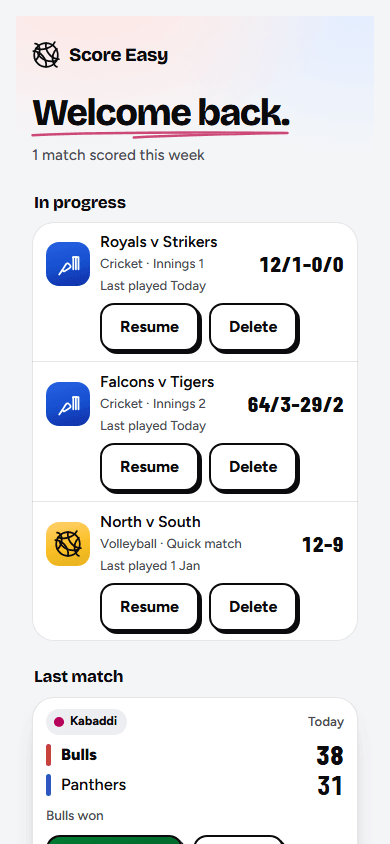
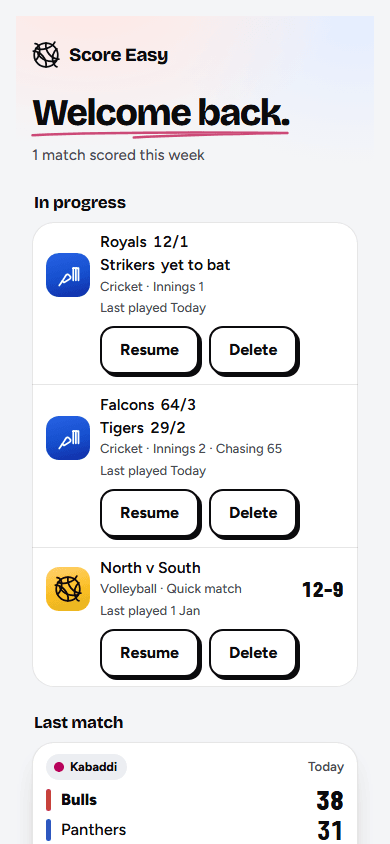
docs(matches): refresh round-two retention and cricket evidence
Capture Home, History and delete confirmation with the new named cricket innings. Record phone dimensions, actual name truncation, unclipped scores, full-suite results and the rebase compatibility audit.

Changed region(s): [[0.0923, 0.2773, 0.8923, 1.0], [0.8, 0.8318, 0.8923, 1.0], [0.4923, 0.9858, 0.7385, 1.0]]

diff --git a/docs/plans/2026-10-23-keep-every-match/README.md b/docs/plans/2026-10-23-keep-every-match/README.md
@@ -4,7 +4,7 @@ Starting a second quick match used the first match's storage slot, and drafts ol
 
 The screenshots render real components with local fixtures and mocked auth/Convex. T3 `html_preview` was the only screenshot renderer. The app was built as an inline IIFE with inline CSS and fonts, inside exact phone frames. Entry motion was disabled in the fixture to capture its settled state. No live data or backend writes were used.
 
-The product source for the after captures is `8509bbabc95534e2dc1151c6229b373a8286362f`. The before source is tracked master `4a3ba4494f47fe8294a518abdc1c95e017f075b8`. The baseline fixture uses legacy per-sport slots: cricket B overwrites cricket A, and the older volleyball draft is hidden by expiry. Its Home therefore shows only cricket B; its History shows only the completed kabaddi result. The after fixture holds all three independent records.
+The product source for the refreshed after captures is `715c9e0290a7527f2a7b76e32455cc29fb019f32` (round 2, rebased onto dock-visibility PR #206). The before source is tracked master `4a3ba4494f47fe8294a518abdc1c95e017f075b8`. The baseline fixture uses legacy per-sport slots: cricket B overwrites cricket A, and the older volleyball draft is hidden by expiry. Its Home therefore shows only cricket B; its History shows only the completed kabaddi result. The after fixture holds all three independent records.
 
 | Capture | Evidence |
 | --- | --- |
@@ -59,21 +59,40 @@ Storage full at boot remains a separate existing bug (Forge `7a50f38f-f619-445d-
 
 The source and test file inventory follows.
 
+## Round 2: restore the started board after refresh
+
+The rebase onto PR #206 preserved both conflict assertions: Rematch is dock-free while New Match returns to setup, and the latch check reads the per-match catalog. The six new dock regressions failed before this fix. The snapshot was still stored: the bare quick route only consulted the removed legacy slot, while the new per-match record required a resume id. It now resolves the most recently saved started draft of that sport, including 0?0 and an Undo back to zero. Fresh creation actions pass explicit router state; Home/History rematches already pass the intended teams. Starting a second match still allocates a separate record. Phantom-shell cleanup was not changed.
+
+Cricket quick rows now pair each team with its own runs/wickets, show the unplayed side as yet to bat, and derive the chase target from the other innings. Names ellipsize; score/status values do not shrink. The seven after screenshots above were refreshed, including the changed delete-confirmation copy. A separate 360px long-name render verifies actual name truncation, no numeric clipping and no horizontal overflow. New Resume/Delete targets measure at least 88.39?48px. Round-2 metadata is retained separately in the measurements JSON; the prior capture metadata remains historical.
+
+Test adaptations are limited to helpers: the retention flow uses the real Play tile to start match B, and 11 existing scorer storage mocks expose an empty per-match key inventory through listDataKeys. Their seeded legacy snapshots and all timer, score, Undo and broadcast assertions are unchanged. The #206 dock tests and the conflict resolution are unchanged. New regressions cover the latest zero-score match alongside a peer, both Home/History cricket labels, reversed batting order and a zero-run chase target.
+
+Round-2 validation (evidence rung 4): the full suite passed 166 files, 2,164 tests passed and 7 existing expected failures (2,171 total), using bun run test --maxWorkers 2. The production build passed. Commit hooks passed lint (0 errors, 29 existing warnings), type-check and config synchronization. Screenshot evidence (rung 5 for these rendered components) passed all eight audits. All nine PNG dimensions were checked after compression; total committed image size is 194,997 bytes. Evidence compression and the size gate passed. The first full attempt exposed the missing mock inventory method and was stopped before completion; the completed run used the updated helpers.
+
 <!-- file inventory -->
 
 - [`src/designs/design1-mono/KeepEveryMatch.test.jsx`](../../../src/designs/design1-mono/KeepEveryMatch.test.jsx)
 - [`src/designs/design1-mono/MonoHistory.jsx`](../../../src/designs/design1-mono/MonoHistory.jsx)
+- [`src/designs/design1-mono/MonoPlayHub.jsx`](../../../src/designs/design1-mono/MonoPlayHub.jsx)
 - [`src/designs/design1-mono/MonoQuickMatch.badmintonBoard.test.jsx`](../../../src/designs/design1-mono/MonoQuickMatch.badmintonBoard.test.jsx)
 - [`src/designs/design1-mono/MonoQuickMatch.basketballBoard.test.jsx`](../../../src/designs/design1-mono/MonoQuickMatch.basketballBoard.test.jsx)
 - [`src/designs/design1-mono/MonoQuickMatch.broadcast.test.jsx`](../../../src/designs/design1-mono/MonoQuickMatch.broadcast.test.jsx)
+- [`src/designs/design1-mono/MonoQuickMatch.clock.test.jsx`](../../../src/designs/design1-mono/MonoQuickMatch.clock.test.jsx)
 - [`src/designs/design1-mono/MonoQuickMatch.cricketBoard.test.jsx`](../../../src/designs/design1-mono/MonoQuickMatch.cricketBoard.test.jsx)
+- [`src/designs/design1-mono/MonoQuickMatch.footballBoard.test.jsx`](../../../src/designs/design1-mono/MonoQuickMatch.footballBoard.test.jsx)
+- [`src/designs/design1-mono/MonoQuickMatch.goalsBoard.test.jsx`](../../../src/designs/design1-mono/MonoQuickMatch.goalsBoard.test.jsx)
 - [`src/designs/design1-mono/MonoQuickMatch.hardening.test.jsx`](../../../src/designs/design1-mono/MonoQuickMatch.hardening.test.jsx)
+- [`src/designs/design1-mono/MonoQuickMatch.hockeyBoard.test.jsx`](../../../src/designs/design1-mono/MonoQuickMatch.hockeyBoard.test.jsx)
 - [`src/designs/design1-mono/MonoQuickMatch.jsx`](../../../src/designs/design1-mono/MonoQuickMatch.jsx)
 - [`src/designs/design1-mono/MonoQuickMatch.lastLine.test.jsx`](../../../src/designs/design1-mono/MonoQuickMatch.lastLine.test.jsx)
 - [`src/designs/design1-mono/MonoQuickMatch.pointCue.test.jsx`](../../../src/designs/design1-mono/MonoQuickMatch.pointCue.test.jsx)
 - [`src/designs/design1-mono/MonoQuickMatch.restoreNotice.test.jsx`](../../../src/designs/design1-mono/MonoQuickMatch.restoreNotice.test.jsx)
 - [`src/designs/design1-mono/MonoQuickMatch.tabletennisBoard.test.jsx`](../../../src/designs/design1-mono/MonoQuickMatch.tabletennisBoard.test.jsx)
+- [`src/designs/design1-mono/MonoQuickMatch.teamColour.test.jsx`](../../../src/designs/design1-mono/MonoQuickMatch.teamColour.test.jsx)
+- [`src/designs/design1-mono/MonoSportHome_TABBED.jsx`](../../../src/designs/design1-mono/MonoSportHome_TABBED.jsx)
+- [`src/designs/design1-mono/MonoTournamentList.jsx`](../../../src/designs/design1-mono/MonoTournamentList.jsx)
 - [`src/designs/design1-mono/components/InProgressMatches.jsx`](../../../src/designs/design1-mono/components/InProgressMatches.jsx)
+- [`src/designs/design1-mono/components/RouteRecoveryActions.jsx`](../../../src/designs/design1-mono/components/RouteRecoveryActions.jsx)
 - [`src/designs/design1-mono/components/inProgressMatches.css`](../../../src/designs/design1-mono/components/inProgressMatches.css)
 - [`src/designs/design1-mono/index.jsx`](../../../src/designs/design1-mono/index.jsx)
 - [`src/designs/design1-mono/landing/DashboardLanding.jsx`](../../../src/designs/design1-mono/landing/DashboardLanding.jsx)
